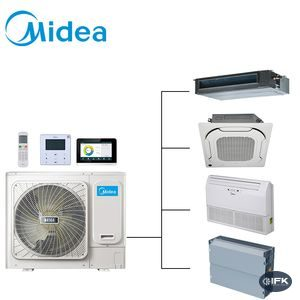
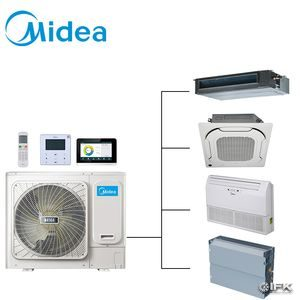
Logotipo sin óvalo, blanco y más grande
El cliente no quiso el círculo. Entra la versión en blanco sobre fondo
transparente, recortada al borde del dibujo. Sin el óvalo el logotipo es una
franja —3.23 de ancho por alto, contra 1.60 antes—, así que sube de tamaño en
los tres lugares: barra 46 px, pie 56 px y fachada hasta 74 px, con su valor
propio para el teléfono. Ahora se alcanza a leer "Refrigeración y
climatización" bajo la marca.

Un logotipo blanco no se ve sobre una fotografía clara: los contenedores y
las láminas de catálogo se lo tragaban. Así que al estampar, marcar-imagen.php
dibuja primero su silueta en negro, repetida con poca opacidad y corrida unos
píxeles, y encima el logo. Es una sombra blanda, sin caja: probado sobre la
foto más clara y la más oscura del sitio, se lee en las dos.

Las veinte fotografías se volvieron a estampar con ese tratamiento.

Changed region(s): [[0.84, 0.9, 0.99, 0.99]]

diff --git a/assets/css/sitio.css b/assets/css/sitio.css
@@ -92,7 +92,7 @@ p:last-child{margin-bottom:0}
 }
 .nav__in{display:flex;align-items:center;gap:18px;height:var(--nav-h)}
 .nav__logo{display:inline-flex}
-.nav__logo img{height:40px;width:auto;filter:drop-shadow(0 5px 14px rgba(3,16,28,.7))}
+.nav__logo img{height:46px;width:auto;filter:drop-shadow(0 4px 12px rgba(3,16,28,.55))}
 
 .nav__menu{display:flex;align-items:center;gap:4px;margin-left:auto}
 .nav__menu a{
@@ -436,7 +436,7 @@ p:last-child{margin-bottom:0}
 .pie a:hover{color:#fff}
 .pie li{margin-bottom:9px;font-size:.92rem}
 .pie__logo{display:inline-flex;margin-bottom:16px}
-.pie__logo img{height:46px;width:auto}
+.pie__logo img{height:56px;width:auto}
 .pie__intro{font-size:.92rem;max-width:34ch}
 .pie__abajo{display:flex;flex-wrap:wrap;gap:10px 24px;justify-content:space-between;
             margin-top:clamp(30px,4vw,48px);padding-top:22px;

diff --git a/assets/css/fachada.css b/assets/css/fachada.css
@@ -109,7 +109,7 @@ p{margin:0}
 .logo{display:inline-flex;transition:transform .25s ease}
 .logo:hover{transform:translateY(-2px)}
 /* El logo va suelto sobre la foto: una sombra suave lo despega del fondo. */
-.logo img{height:clamp(44px,5.6vw,60px);width:auto;filter:drop-shadow(0 6px 18px rgba(3,16,28,.75))}
+.logo img{height:clamp(52px,6.4vw,74px);width:auto;filter:drop-shadow(0 6px 18px rgba(3,16,28,.6))}
 
 /* ---------------- Centro: el mensaje ---------------- */
 
@@ -248,7 +248,7 @@ h1 em{
 @media (max-width:420px){
   .areas b{font-size:.86rem}
   .areas span{font-size:.7rem}
-  .logo img{height:40px}
+  .logo img{height:48px}
   .btn{padding:14px 22px}
 }
 

diff --git a/herramientas/marcar-imagen.php b/herramientas/marcar-imagen.php
@@ -79,9 +79,14 @@ $m = (int)round($w * 0.025);
     default   => [$w - $lw - $m, $m],          // sup-der
 };
 
-/* 5. Estampar, con algo de transparencia para que no tape la foto. */
+/* 5. Estampar. El logotipo es blanco, así que sobre una foto clara
+      desaparecería: primero va su sombra, apenas marcada, y encima el logo. */
 imagealphablending($foto, true);
-imagecopymerge_alpha($foto, $marca, $x, $y, 78);
+$sombra = logo_sombra($marca);
+foreach ([[1, 2], [-1, 2], [0, 3], [2, 1], [-2, 1], [0, 1]] as [$dx, $dy]) {
+    imagecopymerge_alpha($foto, $sombra, $x + $dx, $y + $dy, 20);
+}
+imagecopymerge_alpha($foto, $marca, $x, $y, 86);
 
 /* 6. Guardar. */
 $ok = str_ends_with(strtolower($salida), '.png')
@@ -90,6 +95,26 @@ $ok = str_ends_with(strtolower($salida), '.png')
 
 if (!$ok) { fwrite(STDERR, "No pude escribir $salida\n"); exit(1); }
 printf("%s  ·  %dx%d  ·  %d KB\n", $salida, $w, $h, (int)round(filesize($salida) / 1024));
+
+/**
+ * La silueta del logotipo en negro, con su misma transparencia. Puesta varias
+ * veces con poca opacidad y desplazada unos píxeles, hace de sombra blanda:
+ * es lo que permite que un logotipo blanco se lea sobre una foto clara sin
+ * dibujarle una caja encima.
+ */
+function logo_sombra($logo) {
+    $w = imagesx($logo); $h = imagesy($logo);
+    $s = imagecreatetruecolor($w, $h);
+    imagealphablending($s, false);
+    imagesavealpha($s, true);
+    for ($x = 0; $x < $w; $x++) {
+        for ($y = 0; $y < $h; $y++) {
+            $a = (imagecolorat($logo, $x, $y) >> 24) & 0x7F;
+            imagesetpixel($s, $x, $y, $a << 24);        // negro, misma transparencia
+        }
+    }
+    return $s;
+}
 
 /**
  * imagecopymerge() pierde la transparencia del PNG/WEBP; esta versión la
